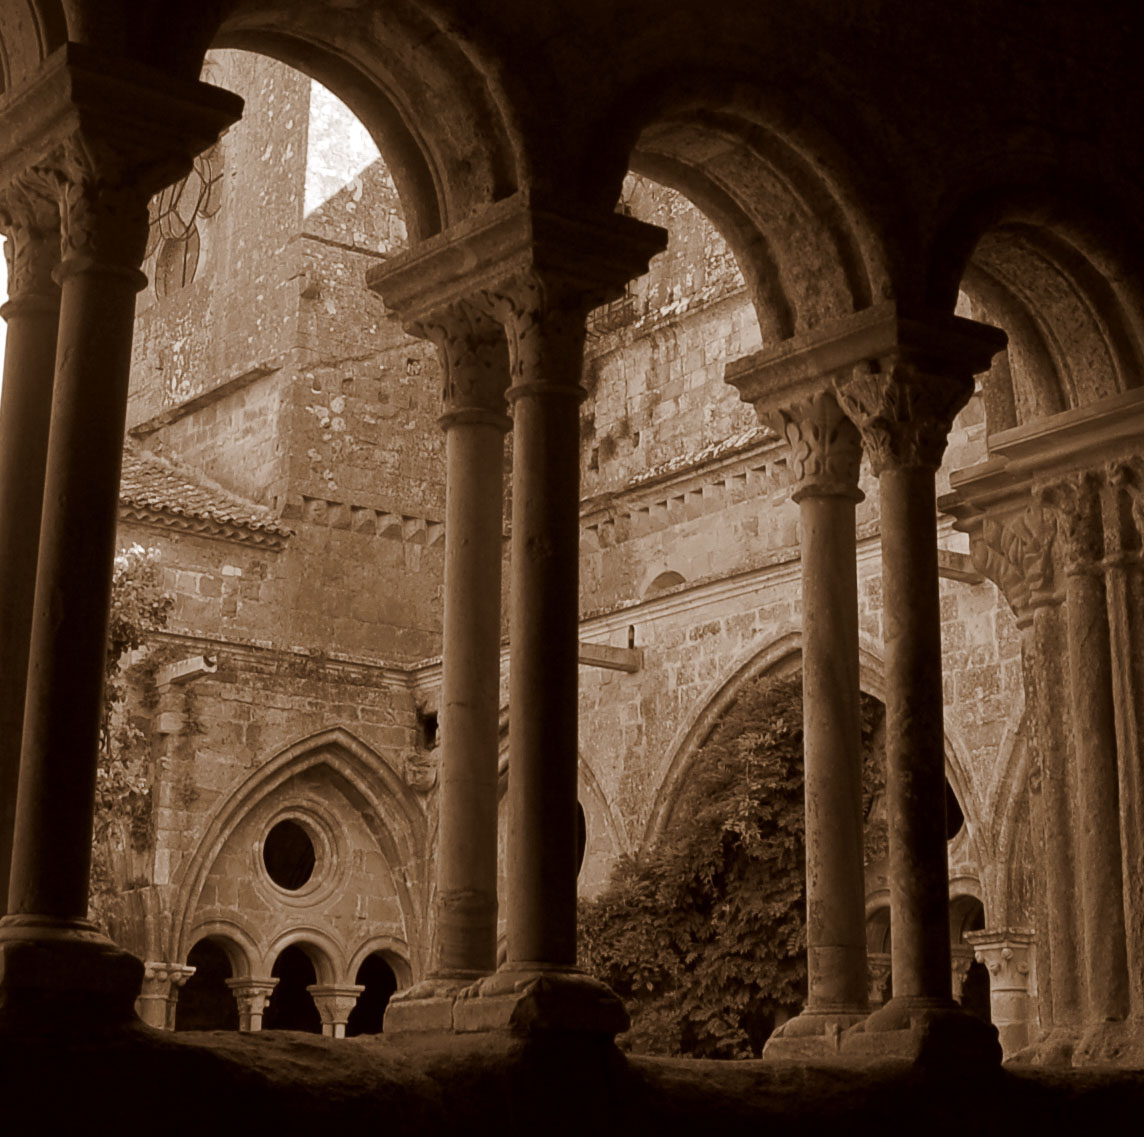
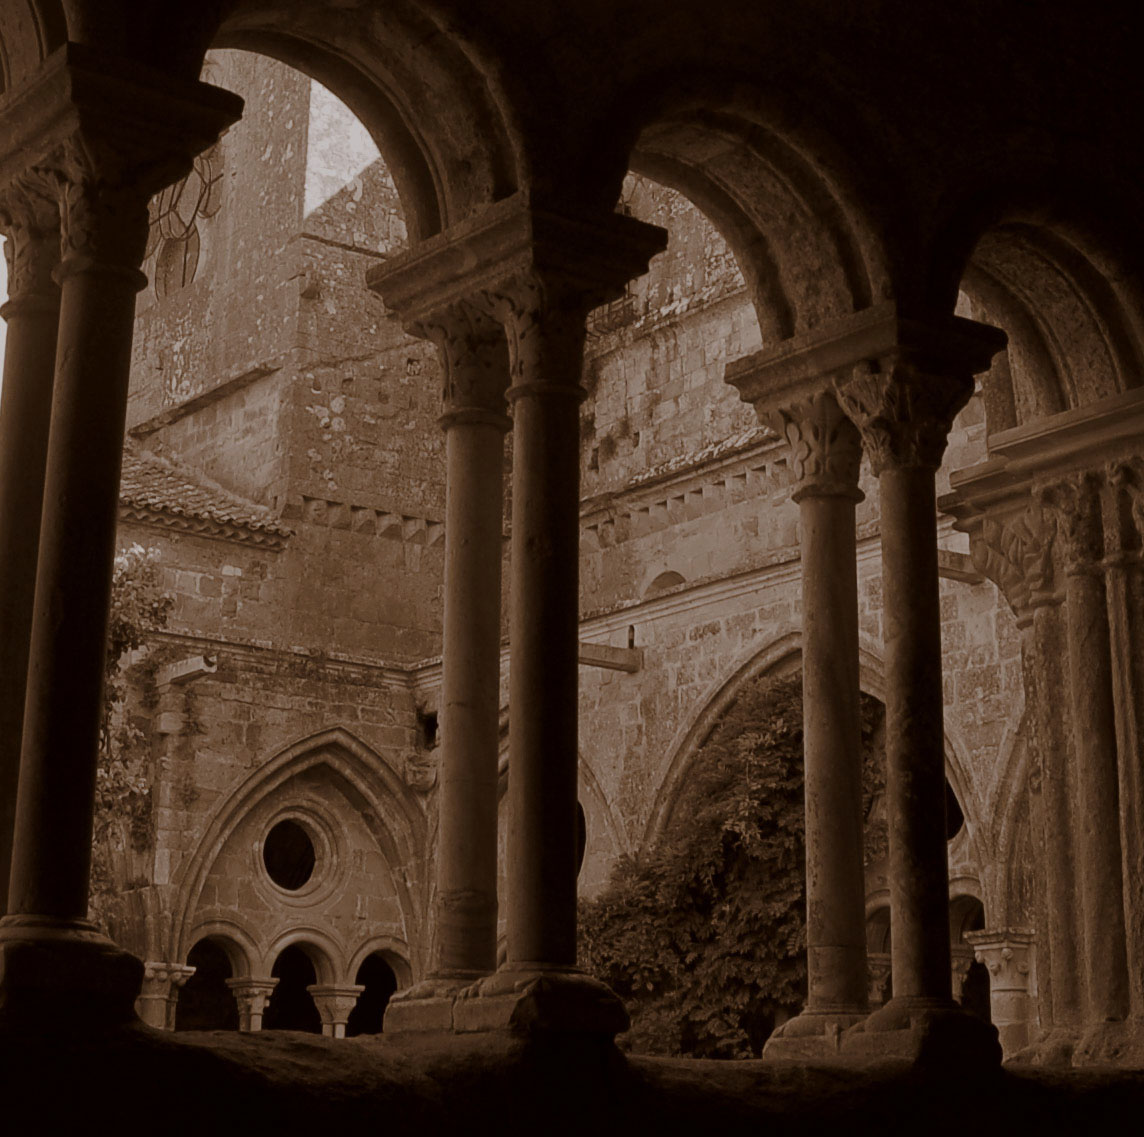
fix[home]: mobile home

diff --git a/app/css/main.css b/app/css/main.css
@@ -136,7 +136,8 @@ a {
 /* Helpers */
 /** global variables **/
 /** logo **/
-/** home presentation **/
+/** home **/
+/** bottles img **/
 /** discover button **/
 @font-face {
   font-family: 'KohinoorDevanagari-Medium';
@@ -213,31 +214,38 @@ body {
 
 .accueil__presentation {
   background-size: 100%;
-  background-image: url("/../images/abbey_mobile.jpg"); }
+  background-image: url("/../images/abbey_mobile.jpg");
+  background-repeat: no-repeat; }
 
 .accueil__presentation p {
   margin-top: 20px;
   margin-top: 1.25rem;
   font-size: 29px;
   font-size: 1.8125rem;
-  font-family: Kohinoor Devanagari Light; }
+  font-family: Kohinoor Devanagari Light;
+  line-height: 35px;
+  line-height: 2.1875rem; }
 
 .accueil__presentation--text {
   background: -webkit-linear-gradient(top, #211d1e, rgba(33, 29, 30, 0.1));
   background: linear-gradient(to bottom, #211d1e, rgba(33, 29, 30, 0.1)); }
 
+.accueil__presentation--bottles {
+  background: -webkit-linear-gradient(top, rgba(33, 29, 30, 0.1), #211d1e);
+  background: linear-gradient(to bottom, rgba(33, 29, 30, 0.1), #211d1e); }
+
 .accueil__presentation--bottles img {
   margin: auto;
-  margin-top: 80px;
-  margin-top: 5rem;
+  margin-top: 60px;
+  margin-top: 3.75rem;
   width: 35%;
   display: -webkit-box;
   display: -ms-flexbox;
   display: flex; }
 
 .accueil__presentation--discover {
-  background: -webkit-linear-gradient(bottom, #211d1e, rgba(33, 29, 30, 0.1));
-  background: linear-gradient(to top, #211d1e, rgba(33, 29, 30, 0.1)); }
+  background: -webkit-linear-gradient(top, #211d1e, rgba(33, 29, 30, 0.1));
+  background: linear-gradient(to bottom, #211d1e, rgba(33, 29, 30, 0.1)); }
 
 .button-flex {
   background-color: #d9af33;

diff --git a/app/scss/pages/_home.scss b/app/scss/pages/_home.scss
@@ -9,37 +9,43 @@ body {
 }
 
 .accueil__presentation {
-    background-size: 100%;
+    background-size: $background-size;
     background-image: url("/../images/abbey_mobile.jpg");
+    background-repeat: no-repeat;
 }
 
 .accueil__presentation p {
     margin-top: $margin-top-presentation;
     font-size: $font-size-presentation;
     font-family: $font-family-presentation;
+    line-height: $line-height-presentation;
 }
 
 .accueil__presentation--text {
     background: linear-gradient(to bottom, rgba(33, 29, 30, 1), rgba(33, 29, 30, 0.1));
 }
 
+.accueil__presentation--bottles {
+    background: linear-gradient(to bottom, rgba(33, 29, 30, 0.1), rgba(33, 29, 30, 1));
+}
+
 .accueil__presentation--bottles img {
     margin: auto;
-    margin-top: 80px;
-    width: 35%;
+    margin-top: $margin-top-bottles;
+    width: $bottles-width;
     display: flex;
 }
 
 .accueil__presentation--discover {
-   background: linear-gradient(to top, rgba(33, 29, 30, 1), rgba(33, 29, 30, 0.1)); 
+   background: linear-gradient(to bottom, rgba(33, 29, 30, 1), rgba(33, 29, 30, 0.1)); 
 }
 
 .button-flex {
     background-color: $color-yellow;
-    width: 85%;
+    width: $button-discover-width;
     margin: auto;
-    padding: 8px;
-    border-radius: 5px;
+    padding: $button-discover-padding;
+    border-radius: $button-discover-border-radius;
 }
 
 .button-flex, .flex-item:first-child {

diff --git a/app/scss/helpers/_variables.scss b/app/scss/helpers/_variables.scss
@@ -6,12 +6,21 @@ $color-yellow: #d9af33;
 $mobile-logo-margin: 50px 0 0 15px;
 $mobile-logo-width: 70%;
 
-/** home presentation **/
+/** home **/
+$background-size: 100%;
 $font-size-presentation: 29px;
 $font-family-presentation: Kohinoor Devanagari Light;
 $margin-top-presentation: 20px;
+$line-height-presentation: 35px;
+
+/** bottles img **/
+$margin-top-bottles: 60px;
+$bottles-width: 35%;
 
 /** discover button **/
+$button-discover-width: 85%;
 $font-size-button: 20px;
 $font-family-button: Kohinoor Devanagari SemiBold;
 $width-button-icon: 60%;
+$button-discover-padding: 8px;
+$button-discover-border-radius: 5px;
